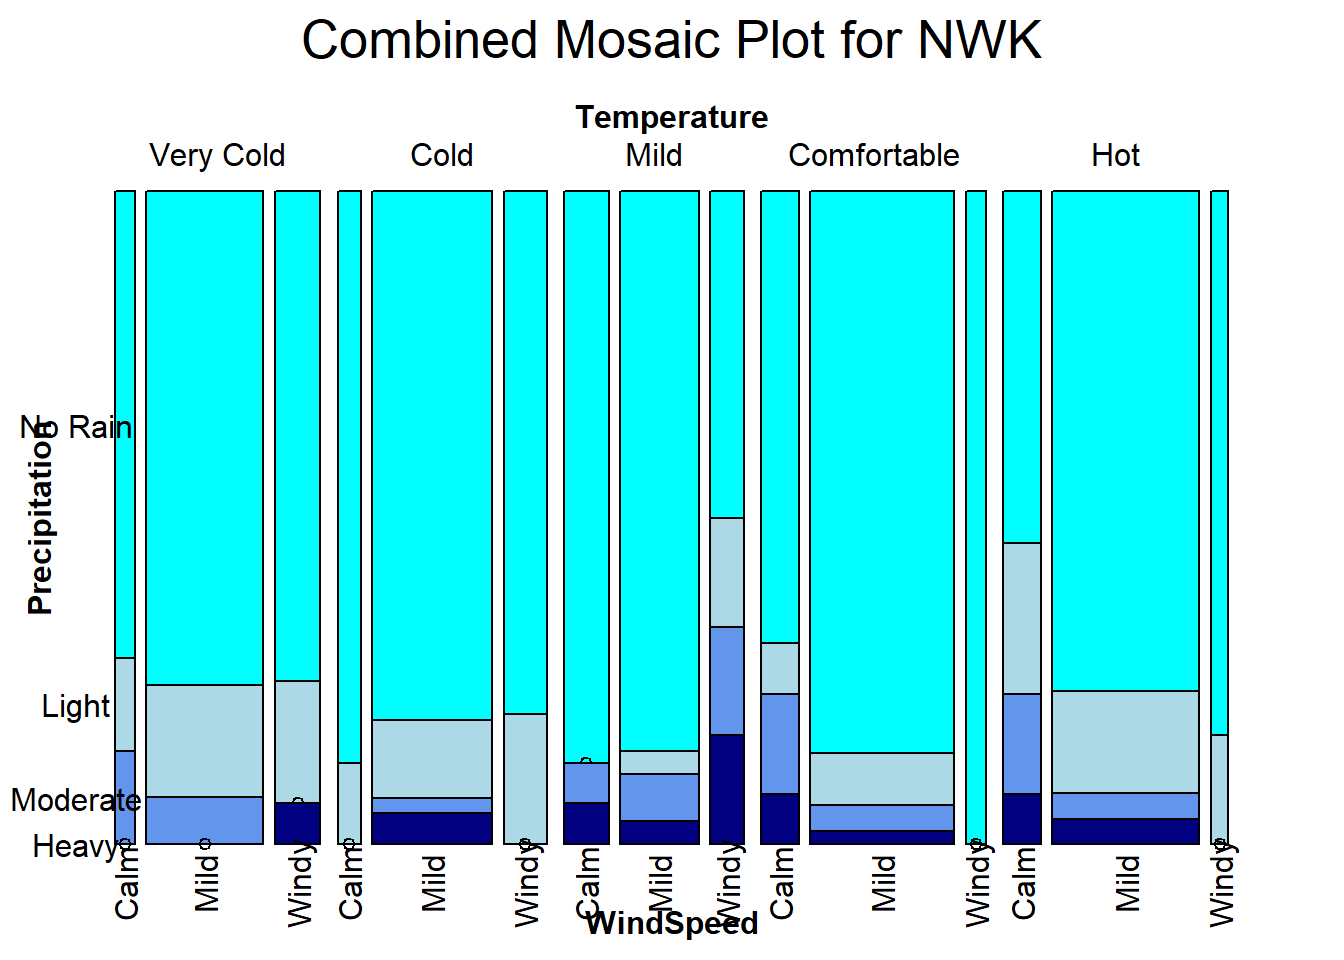
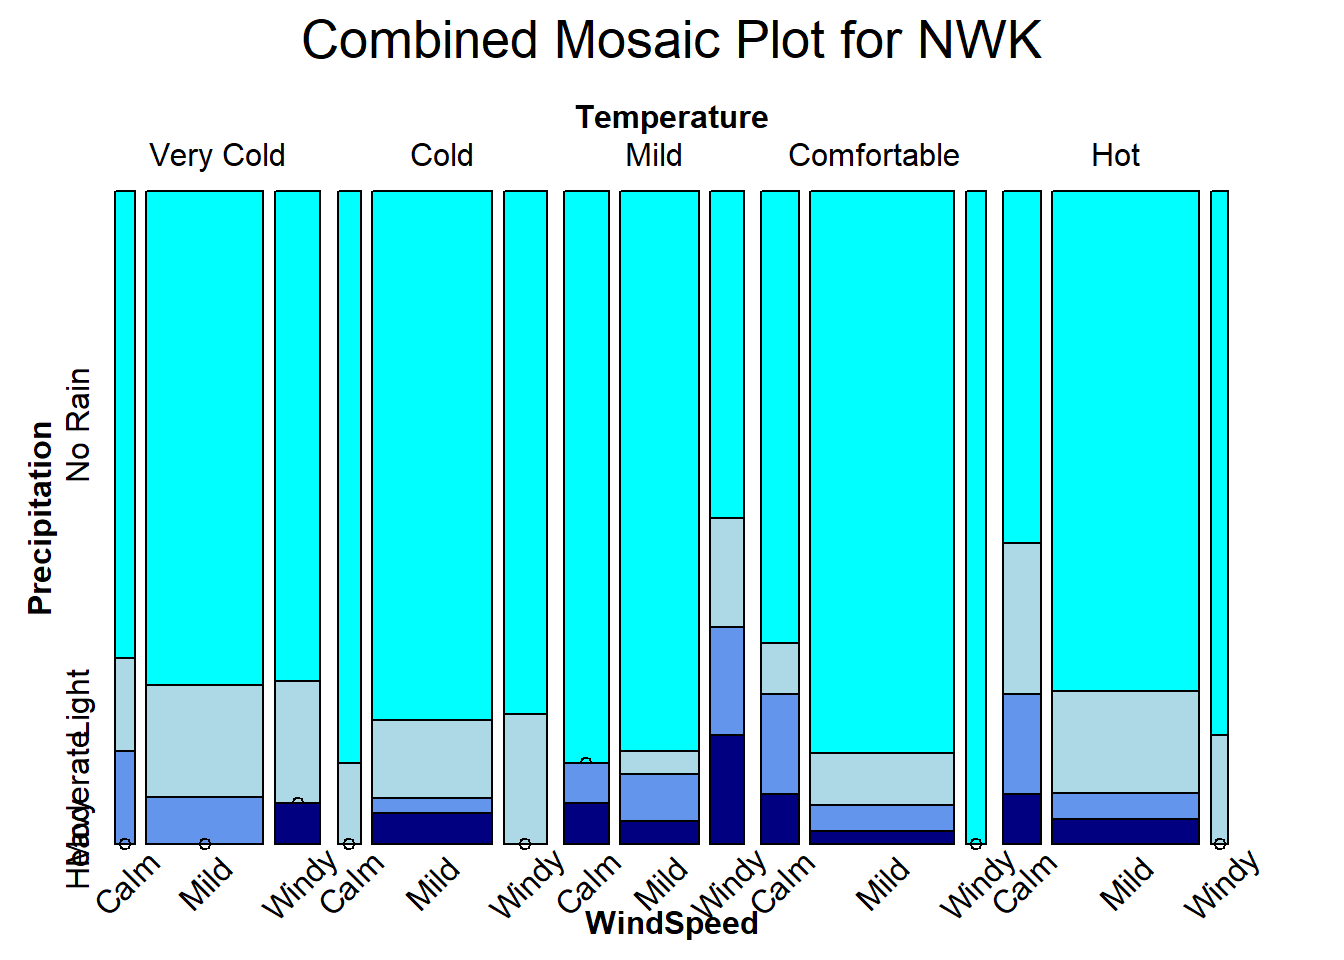
Final building book on results

diff --git a/docs/results.html b/docs/results.html
@@ -171,7 +171,16 @@ pre > code.sourceCode > span > a:first-child::before { text-decoration: underlin
 <div id="quarto-sidebar-glass" data-bs-toggle="collapse" data-bs-target="#quarto-sidebar,#quarto-sidebar-glass"></div>
 <!-- margin-sidebar -->
     <div id="quarto-margin-sidebar" class="sidebar margin-sidebar">
-        
+        <nav id="TOC" role="doc-toc" class="toc-active">
+    <h2 id="toc-title">Table of contents</h2>
+   
+  <ul>
+  <li><a href="#distribution-pattern-among-three-variables" id="toc-distribution-pattern-among-three-variables" class="nav-link active" data-scroll-target="#distribution-pattern-among-three-variables"><span class="header-section-number">3.1</span> Distribution pattern among three variables</a></li>
+  <li><a href="#examine-the-relationship-between-dependent-and-independent-variables-as-categorical-variables" id="toc-examine-the-relationship-between-dependent-and-independent-variables-as-categorical-variables" class="nav-link" data-scroll-target="#examine-the-relationship-between-dependent-and-independent-variables-as-categorical-variables"><span class="header-section-number">3.2</span> Examine the relationship between dependent and independent variables as categorical variables</a></li>
+  <li><a href="#distribution-analysis-for-each-variable-comparing-different-airports" id="toc-distribution-analysis-for-each-variable-comparing-different-airports" class="nav-link" data-scroll-target="#distribution-analysis-for-each-variable-comparing-different-airports"><span class="header-section-number">3.3</span> Distribution analysis for each variable comparing different airports</a></li>
+  <li><a href="#another-approach-to-visualize-distributions" id="toc-another-approach-to-visualize-distributions" class="nav-link" data-scroll-target="#another-approach-to-visualize-distributions"><span class="header-section-number">3.4</span> Another approach to visualize distributions</a></li>
+  </ul>
+<div class="toc-actions"><div><i class="bi bi-github"></i></div><div class="action-links"><p><a href="https://github.com/dongqiwuuuu/NewYorkWindPerc.git/edit/main/results.qmd" class="toc-action">Edit this page</a></p><p><a href="https://github.com/dongqiwuuuu/NewYorkWindPerc.git/issues/new" class="toc-action">Report an issue</a></p></div></div></nav>
     </div>
 <!-- main -->
 <main class="content" id="quarto-document-content">
@@ -353,7 +362,8 @@ pre > code.sourceCode > span > a:first-child::before { text-decoration: underlin
 </div>
 <p>The heatmap between temperature and Precipitation across all three airport showed similar distribution patterns. Generally, lower levels of precipitation are common across various temperature ranges. We see that the frequency of occurrences generally decreases as precipitation increases, regardless of temperature.</p>
 <p>From this analysis, there is no clear pattern to suggest a strong correlation between temperature and precipitation; instead, each variable seems to vary independently.</p>
-<p>##Scatterplot Matrix</p>
+<section id="distribution-pattern-among-three-variables" class="level2" data-number="3.1">
+<h2 data-number="3.1" class="anchored" data-anchor-id="distribution-pattern-among-three-variables"><span class="header-section-number">3.1</span> Distribution pattern among three variables</h2>
 <div class="cell">
 <details>
 <summary>Code</summary>
@@ -397,7 +407,9 @@ pre > code.sourceCode > span > a:first-child::before { text-decoration: underlin
 </div>
 </div>
 <p>In our comparative analysis using separate scatter plot matrices for the three selected variables, we observe similar distributions across all associations between temperature, precipitation, and wind speed. The scatter plots indicate a potential tri-modal distribution between average temperature and precipitation. Specifically, at temperatures around 40°F, 60°F, and 75°F, there is an apparent increase in precipitation levels. This pattern suggests that certain temperature ranges may be associated with heightened precipitation. However, outliers are also present, characterized by extremely low temperatures or exceptionally high precipitation. These outliers hint at sporadic extreme weather conditions, which are consistent across the three airports, likely due to their proximity to each other in the New York area. The relationship between precipitation and average wind speed, on the other hand, is more ambiguous. A general trend of lower precipitation at extreme wind speeds is noted, but with the presence of outliers indicating unusually high wind speeds. These deviations suggest occasional instances of strong winds, which may not necessarily correspond with significant precipitation. Regarding the correlation between average temperature and average wind speed, the data reveals no obvious linkage, implying a potential independence between these two variables. A notable observation is that extreme wind speeds often coincide with lower temperatures, although this does not establish a causal relationship. Overall, while certain patterns and trends are discernible in the data, the presence of outliers and the complexity of environmental variables underscore the nuanced nature of these meteorological phenomena.</p>
-<p>##Mosaic</p>
+</section>
+<section id="examine-the-relationship-between-dependent-and-independent-variables-as-categorical-variables" class="level2" data-number="3.2">
+<h2 data-number="3.2" class="anchored" data-anchor-id="examine-the-relationship-between-dependent-and-independent-variables-as-categorical-variables"><span class="header-section-number">3.2</span> Examine the relationship between dependent and independent variables as categorical variables</h2>
 <div class="cell">
 <details>
 <summary>Code</summary>
@@ -416,7 +428,7 @@ pre > code.sourceCode > span > a:first-child::before { text-decoration: underlin
 <span id="cb15-13"><a href="#cb15-13" aria-hidden="true" tabindex="-1"></a></span>
 <span id="cb15-14"><a href="#cb15-14" aria-hidden="true" tabindex="-1"></a></span>
 <span id="cb15-15"><a href="#cb15-15" aria-hidden="true" tabindex="-1"></a><span class="fu">mosaic</span>(Precipitation <span class="sc">~</span> Temperature <span class="sc">+</span> WindSpeed, <span class="at">data =</span> cat_jfk,  </span>
-<span id="cb15-16"><a href="#cb15-16" aria-hidden="true" tabindex="-1"></a>       <span class="at">direction =</span> <span class="fu">c</span>(<span class="st">"v"</span>, <span class="st">"v"</span>, <span class="st">"h"</span>), <span class="at">main =</span> <span class="st">"Combined Mosaic Plot for JFK"</span>, <span class="at">rot_labels=</span><span class="fu">c</span>(<span class="dv">0</span>,<span class="dv">0</span>,<span class="dv">90</span>,<span class="dv">0</span>), <span class="at">highlighting_fill=</span><span class="fu">c</span>(<span class="st">"cyan"</span>,<span class="st">"lightblue"</span>, <span class="st">"cornflowerblue"</span>, <span class="st">"navy"</span>))</span></code><button title="Copy to Clipboard" class="code-copy-button"><i class="bi"></i></button></pre></div>
+<span id="cb15-16"><a href="#cb15-16" aria-hidden="true" tabindex="-1"></a>       <span class="at">direction =</span> <span class="fu">c</span>(<span class="st">"v"</span>, <span class="st">"v"</span>, <span class="st">"h"</span>), <span class="at">main =</span> <span class="st">"Combined Mosaic Plot for JFK"</span>, <span class="at">rot_labels=</span><span class="fu">c</span>(<span class="dv">0</span>,<span class="dv">0</span>,<span class="dv">45</span>,<span class="dv">90</span>), <span class="at">highlighting_fill=</span><span class="fu">c</span>(<span class="st">"cyan"</span>,<span class="st">"lightblue"</span>, <span class="st">"cornflowerblue"</span>, <span class="st">"navy"</span>))</span></code><button title="Copy to Clipboard" class="code-copy-button"><i class="bi"></i></button></pre></div>
 </details>
 <div class="cell-output-display">
 <p><img src="results_files/figure-html/unnamed-chunk-8-1.png" class="img-fluid" width="672"></p>
@@ -424,7 +436,7 @@ pre > code.sourceCode > span > a:first-child::before { text-decoration: underlin
 <details>
 <summary>Code</summary>
 <div class="sourceCode cell-code" id="cb16"><pre class="sourceCode r code-with-copy"><code class="sourceCode r"><span id="cb16-1"><a href="#cb16-1" aria-hidden="true" tabindex="-1"></a><span class="fu">mosaic</span>(Precipitation <span class="sc">~</span> Temperature <span class="sc">+</span> WindSpeed, <span class="at">data =</span> cat_nwk,  </span>
-<span id="cb16-2"><a href="#cb16-2" aria-hidden="true" tabindex="-1"></a>       <span class="at">direction =</span> <span class="fu">c</span>(<span class="st">"v"</span>, <span class="st">"v"</span>, <span class="st">"h"</span>), <span class="at">main =</span> <span class="st">"Combined Mosaic Plot for NWK"</span>, <span class="at">rot_labels=</span><span class="fu">c</span>(<span class="dv">0</span>,<span class="dv">0</span>,<span class="dv">90</span>,<span class="dv">0</span>), <span class="at">highlighting_fill=</span><span class="fu">c</span>(<span class="st">"cyan"</span>,<span class="st">"lightblue"</span>, <span class="st">"cornflowerblue"</span>, <span class="st">"navy"</span>))</span></code><button title="Copy to Clipboard" class="code-copy-button"><i class="bi"></i></button></pre></div>
+<span id="cb16-2"><a href="#cb16-2" aria-hidden="true" tabindex="-1"></a>       <span class="at">direction =</span> <span class="fu">c</span>(<span class="st">"v"</span>, <span class="st">"v"</span>, <span class="st">"h"</span>), <span class="at">main =</span> <span class="st">"Combined Mosaic Plot for NWK"</span>, <span class="at">rot_labels=</span><span class="fu">c</span>(<span class="dv">0</span>,<span class="dv">0</span>,<span class="dv">45</span>,<span class="dv">90</span>), <span class="at">highlighting_fill=</span><span class="fu">c</span>(<span class="st">"cyan"</span>,<span class="st">"lightblue"</span>, <span class="st">"cornflowerblue"</span>, <span class="st">"navy"</span>))</span></code><button title="Copy to Clipboard" class="code-copy-button"><i class="bi"></i></button></pre></div>
 </details>
 <div class="cell-output-display">
 <p><img src="results_files/figure-html/unnamed-chunk-8-2.png" class="img-fluid" width="672"></p>
@@ -432,7 +444,7 @@ pre > code.sourceCode > span > a:first-child::before { text-decoration: underlin
 <details>
 <summary>Code</summary>
 <div class="sourceCode cell-code" id="cb17"><pre class="sourceCode r code-with-copy"><code class="sourceCode r"><span id="cb17-1"><a href="#cb17-1" aria-hidden="true" tabindex="-1"></a><span class="fu">mosaic</span>(Precipitation <span class="sc">~</span> Temperature <span class="sc">+</span> WindSpeed, <span class="at">data =</span> cat_lga,  </span>
-<span id="cb17-2"><a href="#cb17-2" aria-hidden="true" tabindex="-1"></a>       <span class="at">direction =</span> <span class="fu">c</span>(<span class="st">"v"</span>, <span class="st">"v"</span>, <span class="st">"h"</span>), <span class="at">main =</span> <span class="st">"Combined Mosaic Plot for LGA"</span>, <span class="at">rot_labels=</span><span class="fu">c</span>(<span class="dv">0</span>,<span class="dv">0</span>,<span class="dv">90</span>,<span class="dv">0</span>), <span class="at">highlighting_fill=</span><span class="fu">c</span>(<span class="st">"cyan"</span>,<span class="st">"lightblue"</span>, <span class="st">"cornflowerblue"</span>, <span class="st">"navy"</span>))</span></code><button title="Copy to Clipboard" class="code-copy-button"><i class="bi"></i></button></pre></div>
+<span id="cb17-2"><a href="#cb17-2" aria-hidden="true" tabindex="-1"></a>       <span class="at">direction =</span> <span class="fu">c</span>(<span class="st">"v"</span>, <span class="st">"v"</span>, <span class="st">"h"</span>), <span class="at">main =</span> <span class="st">"Combined Mosaic Plot for LGA"</span>, <span class="at">rot_labels=</span><span class="fu">c</span>(<span class="dv">0</span>,<span class="dv">0</span>,<span class="dv">45</span>,<span class="dv">90</span>), <span class="at">highlighting_fill=</span><span class="fu">c</span>(<span class="st">"cyan"</span>,<span class="st">"lightblue"</span>, <span class="st">"cornflowerblue"</span>, <span class="st">"navy"</span>))</span></code><button title="Copy to Clipboard" class="code-copy-button"><i class="bi"></i></button></pre></div>
 </details>
 <div class="cell-output-display">
 <p><img src="results_files/figure-html/unnamed-chunk-8-3.png" class="img-fluid" width="672"></p>
@@ -441,7 +453,9 @@ pre > code.sourceCode > span > a:first-child::before { text-decoration: underlin
 <p>In this analysis, we transformed the continuous variables into categorical ones by establishing specific thresholds. Precipitation was designated as the dependent variable, under the hypothesis that it might be influenced by variations in wind speed and temperature.</p>
 <p>Regarding the relationship between temperature and precipitation, the data reveals a notable trend: the highest precipitation levels are recorded when temperatures are in the “Mild” range (55-65°F). This pattern is evident in the JFK dataset but is less distinct in the LGA dataset.</p>
 <p>When examining the interaction between wind speed and precipitation, the mosaic plots for JFK and LGA display a consistent trend: an increase in wind speed generally correlates with higher levels of precipitation. However, this trend does not apply to the NWK dataset. In NWK, an interesting divergence is observed – at a “Comfortable” temperature range, precipitation levels tend to decrease as wind speed increases, contrasting with the patterns seen in JFK and LGA. This discrepancy highlights the complex and location-specific nature of these environmental variables.</p>
-<p>##Multiple Box-Plot</p>
+</section>
+<section id="distribution-analysis-for-each-variable-comparing-different-airports" class="level2" data-number="3.3">
+<h2 data-number="3.3" class="anchored" data-anchor-id="distribution-analysis-for-each-variable-comparing-different-airports"><span class="header-section-number">3.3</span> Distribution analysis for each variable comparing different airports</h2>
 <div class="cell">
 <details>
 <summary>Code</summary>
@@ -471,7 +485,9 @@ pre > code.sourceCode > span > a:first-child::before { text-decoration: underlin
 </div>
 </div>
 <p>From the box plot, it’s evident that JFK experiences the lowest median temperature and the highest median wind speed among the three locations. Conversely, NWK exhibits the highest median temperature and the lowest median wind speed. In terms of precipitation, a common trend across all three locations is that a majority of the recorded values are zero. Additionally, the presence of outliers in wind speed across all three locations indicates sporadic occurrences of unusually high wind speeds. This could point to infrequent but significant meteorological events or possibly data recording anomalies.</p>
-<p>##Ridgeline</p>
+</section>
+<section id="another-approach-to-visualize-distributions" class="level2" data-number="3.4">
+<h2 data-number="3.4" class="anchored" data-anchor-id="another-approach-to-visualize-distributions"><span class="header-section-number">3.4</span> Another approach to visualize distributions</h2>
 <div class="cell">
 <details>
 <summary>Code</summary>
@@ -518,6 +534,7 @@ pre > code.sourceCode > span > a:first-child::before { text-decoration: underlin
 <p>The ridgeline plot analysis largely corroborates the insights gleaned from the boxplot analysis. It reveals that the temperature distributions across all three airports are quite similar, indicating a consistent temperature range. For precipitation, the distributions are heavily skewed to the right, with most values concentrated near zero. This skewness reflects a predominant absence of precipitation, punctuated by occasional higher values. In terms of wind speed, the distribution for NWK is notably more right-skewed compared to JFK and LGA, suggesting a generally lower wind speed at NWK. Additionally, NWK displays a shorter tail in its distribution, indicating fewer instances of extremely high wind speeds compared to the other two airports. This pattern is reflected in NWK’s lower median wind speed, as observed in the boxplot analysis.</p>
 
 
+</section>
 
 </main> <!-- /main -->
 <script id="quarto-html-after-body" type="application/javascript">
@@ -773,7 +790,7 @@ window.document.addEventListener("DOMContentLoaded", function (event) {
     </div>   
     <div class="nav-footer-center">
       &nbsp;
-    <div class="toc-actions"><div><i class="bi bi-github"></i></div><div class="action-links"><p><a href="https://github.com/dongqiwuuuu/NewYorkWindPerc.git/edit/main/results.qmd" class="toc-action">Edit this page</a></p><p><a href="https://github.com/dongqiwuuuu/NewYorkWindPerc.git/issues/new" class="toc-action">Report an issue</a></p></div></div></div>
+    </div>
     <div class="nav-footer-right">This book was built with <a href="https://quarto.org/">Quarto</a>.</div>
   </div>
 </footer>

diff --git a/docs/scripts/myscript.js b/docs/scripts/myscript.js
@@ -1,61 +1,137 @@
 
-  const w = 400;
-  const h = 300;
-  const margin = {top: 25, right: 0, bottom: 25,
-      left: 25};
-  const innerWidth = w - margin.left - margin.right;
-  const innerHeight = h - margin.top - margin.bottom;
+// Set the dimensions and margins of the graph
+var margin = {top: 10, right: 30, bottom: 50, left: 60},  // Adjusted margins to accommodate labels
+    width = 560 - margin.left - margin.right,
+    height = 400 - margin.top - margin.bottom;
+  const innerWidth = width - margin.left - margin.right;
+  const innerHeight = height - margin.top - margin.bottom;
 
-  const svg = d3.select("div#plot")
-      .attr("width", w)
-      .attr("height", h);
-
+  const svg = d3.select("div#plot").append("svg")
+    .attr("width", width + margin.left + margin.right)
+    .attr("height", height + margin.top + margin.bottom)
+  .append("g")
+    .attr("transform", "translate(" + margin.left + "," + margin.top + ")");
 // Load the data from the CSV file
-d3.csv("https://raw.githubusercontent.com/dongqiwuuuu/NewYorkWindPerc/NY_wind_percip_top5cities.csv").then(function(data) {
 
-  // Filter data for Newark airport
-  var newarkData = data.filter(function(d) {
-      return d.NAME === "NEWARK LIBERTY INTERNATIONAL AIRPORT, NJ US";
+// Define month names for labeling
+  var monthNames = ["January", "February", "March", "April", "May", "June", "July", "August", "September", "October"];
+
+// Parse the date / time
+  var parseTime = d3.timeParse("%Y-%m-%d");
+d3.csv("https://raw.githubusercontent.com/dongqiwuuuu/NewYorkWindPerc/main/NWK_AWND.csv").then(function(data) {
+
+  // Parse dates and AWND
+  data.forEach(function(d) {
+    d.DATE = parseTime(d.DATE);
+    d.AWND = +d.AWND;
   });
 
-  // Parse the PREC column to float
-  newarkData.forEach(function(d) {
-      d.PREC = parseFloat(d.PREC);
+  // Filter out entries without wind data
+  data = data.filter(function(d) {
+    return !isNaN(d.AWND) && d.AWND !== 0;
   });
 
-  // Set the ranges for the scales
-  var x = d3.scaleLinear()
-      .domain(d3.extent(newarkData, function(d) { return d.PREC; }))
+  // Generate a histogram using twenty uniformly-spaced bins.
+  var xScale = d3.scaleLinear()
+      .domain(d3.extent(data, function(d) { return d.AWND; }))
       .range([0, width]);
 
-  svg.append("g")
-      .attr("transform", "translate(0," + height + ")")
-      .call(d3.axisBottom(x));
-
-  // Set up the histogram generator
   var histogram = d3.histogram()
-      .value(function(d) { return d.PREC; })
-      .domain(x.domain())
-      .thresholds(x.ticks(20));
+      .value(function(d) { return d.AWND; })
+      .domain(xScale.domain())
+      .thresholds(xScale.ticks(20));
 
-  // Apply the histogram generator to the data
-  var bins = histogram(newarkData);
+  var bins = histogram(data);
 
   // Y axis: scale and draw
-  var y = d3.scaleLinear()
-      .range([height, 0]);
-      y.domain([0, d3.max(bins, function(d) { return d.length; })]);
+  var yScale = d3.scaleLinear()
+      .range([height, 0])
+      .domain([0, d3.max(bins, function(d) { return d.length; })]);
 
-  // Append the bars for the histogram
-  svg.selectAll("rect")
+  // Append the bar rectangles to the svg element
+  var bars = svg.selectAll("rect")
       .data(bins)
       .enter()
       .append("rect")
+        .attr("class", "bar")
         .attr("x", 1)
         .attr("transform", function(d) {
-          return "translate(" + x(d.x0) + "," + y(d.length) + ")";
+          return "translate(" + xScale(d.x0) + "," + yScale(d.length) + ")";
         })
-        .attr("width", function(d) { return x(d.x1) - x(d.x0) - 1 ; })
-        .attr("height", function(d) { return height - y(d.length); })
+        .attr("width", function(d) { return xScale(d.x1) - xScale(d.x0) - 1; })
+        .attr("height", function(d) { return height - yScale(d.length); })
         .style("fill", "#69b3a2");
+
+  // Add the x Axis
+  svg.append("g")
+      .attr("transform", "translate(0," + height + ")")
+      .call(d3.axisBottom(xScale))
+    .append("text")
+      .attr("fill", "#000")
+      .attr("x", width / 2)
+      .attr("y", 35) // Adjust the position as needed
+      .attr("text-anchor", "end")
+      .attr("font-weight", "bold")
+      .text("Wind Speed");
+
+  // Add the y Axis
+  svg.append("g")
+      .call(d3.axisLeft(yScale))
+    .append("text")
+      .attr("fill", "#000")
+      .attr("transform", "rotate(-90)")
+      .attr("y", -40) // Adjust the position as needed
+      .attr("x", 0 - (height / 2))
+      .attr("dy", "1em")
+      .attr("text-anchor", "middle")
+      .attr("font-weight", "bold")
+      .text("Frequency");
+
+  // Add a label for the current month
+  var monthLabel = svg.append("text")
+    .attr("x", width / 2)
+    .attr("y", height + margin.bottom - 5)
+    .attr("text-anchor", "middle")
+    .attr("font-weight", "bold")
+    .style("font-size", "16px");
+
+  // Function to update the histogram
+  function updateHistogram(month) {
+    // Filter data to the specific month
+    var monthlyData = data.filter(function(d) {
+      return d.DATE.getMonth() === month;
+    });
+
+    // Recompute histogram with new data
+    var monthlyBins = histogram(monthlyData);
+
+    // Recalculate yScale domain based on new data
+    yScale.domain([0, d3.max(monthlyBins, function(d) { return d.length; })]);
+
+    // Select the bars and join with new data
+    bars.data(monthlyBins);
+
+    // Update all bars to new positions
+    bars.transition()
+      .duration(1000)
+      .attr("transform", function(d) {
+        return "translate(" + xScale(d.x0) + "," + yScale(d.length) + ")";
+      })
+      .attr("height", function(d) { return height - yScale(d.length); });
+
+    // Update the month label
+    monthLabel.text(monthNames[month]);
+  }
+
+  // Initial histogram for January
+  updateHistogram(0); // January is month 0 in JavaScript
+
+  // Update the histogram to the next month every 2 seconds
+  var currentMonth = 0;
+  setInterval(function() {
+    currentMonth = (currentMonth + 1) % 10; // Loop from January to October (0 to 9)
+    updateHistogram(currentMonth);
+  }, 2000);
+
+
 });
